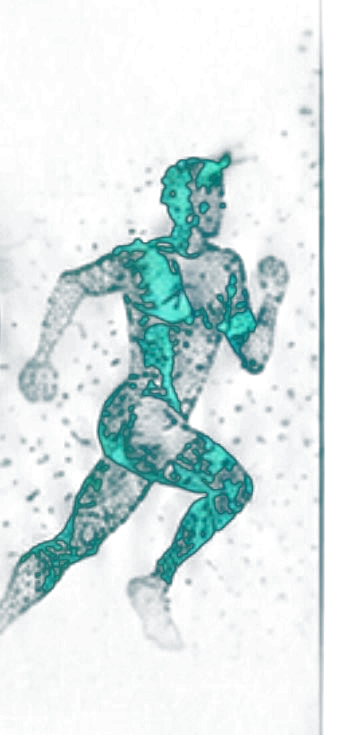
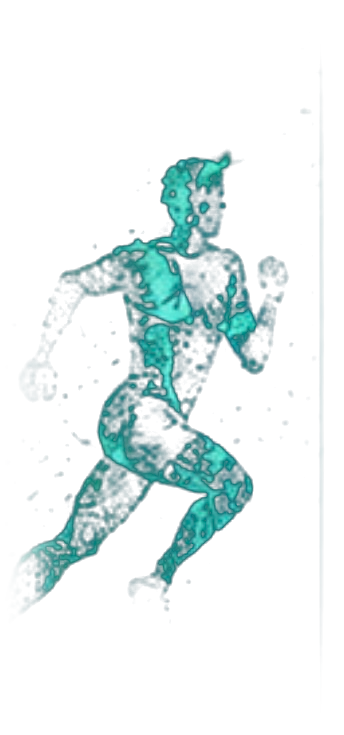
Feather the score-card runner cutout to remove its visible box edge
Regenerate gauge-runner.png with a cleaner luminance/teal key (higher
threshold drops the faint background haze) plus a smooth per-edge alpha
feather (20% horizontal, 14% vertical), so the figure fades into the card
with no rectangular boundary. Cache bumped so devices refetch the image.

Claude-Session: https://claude.ai/code/session_01Vr24kDMZtudydvzCwscX3h

diff --git a/index.html b/index.html
@@ -6089,7 +6089,7 @@ function renderMedScore(){
     chk('labileINR','服用 warfarin 且 INR 不穩定')+`</div>`);
   el.innerHTML=cards.join('')+`<div class="foot" style="text-align:left;padding:0 4px;">📚 依據：Goff DC 2013 ACC/AHA、Lindström & Tuomilehto 2003 FINDRISC、Inker 2021 CKD-EPI、Sterling 2006 FIB-4、Bedogni 2006 FLI、NCEP ATP III、Simental-Mendía 2008 TyG、Lloyd-Jones 2022 AHA Life’s Essential 8、Lip 2010 CHA₂DS₂-VASc、Pisters 2010 HAS-BLED、Koh 2001 OSTA、Angulo 2007 NAFLD Fibrosis Score、Wai 2003 APRI、Woolcott & Bergman 2018 RFM、Nathan 2008 ADAG（eAG）、Payne 1973 校正鈣。此頁為衛教參考、非醫療診斷；請以醫師判讀為準。</div>`;
 }
-const APP_VERSION='2026.08.09-hd-pills';
+const APP_VERSION='2026.08.09-runner-feather';
 // 最簡易的雲端備份：叫出手機原生「分享」面板，讓使用者直接「儲存到雲端硬碟」（免任何設定、免 OAuth）；
 // 不支援分享（多為桌機）時自動退回下載檔案。本機資料照常保留，單機＋雲端共存。
 async function shareOrDownloadBackup(){

diff --git a/sw.js b/sw.js
@@ -4,7 +4,7 @@
    - 同源靜態檔（icon/manifest）：快取優先
    - 跨網域 CDN（Chart.js/Firebase/pdf.js/字型…）：快取優先，未命中則抓取並存入（含 opaque 回應）
    換版：改 CACHE 版本號即會在 activate 時清掉舊快取。 */
-const CACHE = 'lifespan-cache-2026.08.09-hd-pills';
+const CACHE = 'lifespan-cache-2026.08.09-runner-feather';
 
 /* App shell（同源，必存）*/
 const CORE = [
